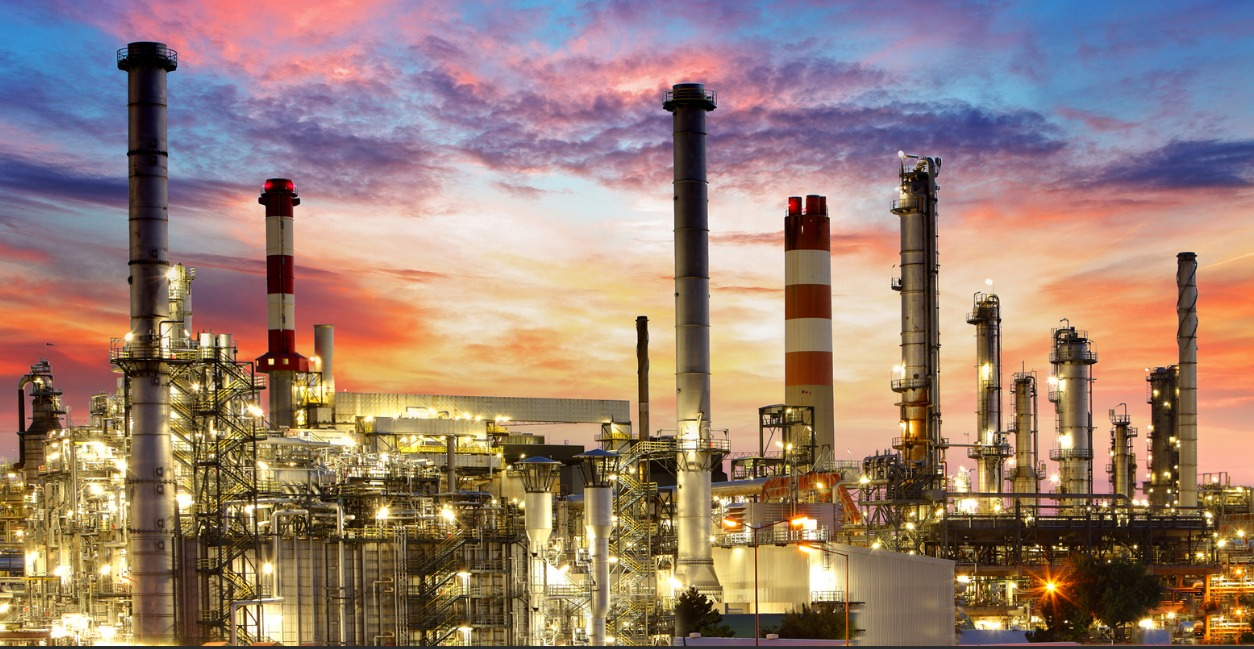
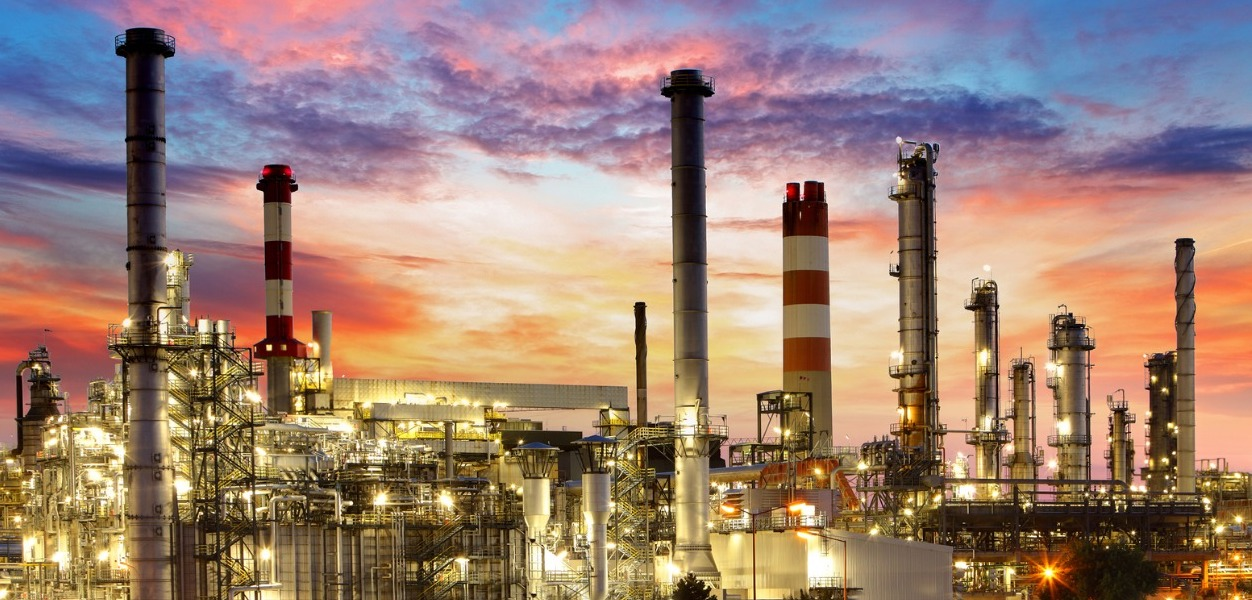
carousel pics added

diff --git a/templates/index.html b/templates/index.html
@@ -91,13 +91,13 @@
             
             <ul class="navbar-nav  col-12 col-lg-auto me-lg-auto mb-2 justify-content-center mb-md-0  " style="--bs-scroll-height: 100px;">
               <li class="nav-item " >
-                <a class="nav-link active text-white" aria-current="page" href="/">Home</a>
+                <a class="nav-link active text-white" aria-current="page" href="/" style="font-size: 125%">Home</a>
               </li>
               <li class="nav-item" style="margin-left:2vw;">
-                <a class="nav-link text-white" href="/">About us</a>
+                <a class="nav-link text-white " href="/" style="font-size: 125%">About us</a>
               </li>
               <li class="nav-item" style="margin-left:2vw;">
-                <a class="nav-link text-white" href="/">Contact</a>
+                <a class="nav-link text-white" href="/" style="font-size: 125%">Contact</a>
               </li>
               <!-- <li class="nav-item dropdown">
                 <a class="nav-link dropdown-toggle" href="#" id="navbarScrollingDropdown" role="button" data-bs-toggle="dropdown" aria-expanded="false">
@@ -138,7 +138,7 @@
                 <a class="nav-link active text-white" aria-current="page" href="/">Home</a>
               </li>
               <li class="nav-item" style="margin-left:2vw;">
-                <a class="nav-link text-white" href="/">About us</a>
+                <a class="nav-link text-white " href="/">About us</a>
               </li>
               <li class="nav-item" style="margin-left:2vw;">
                 <a class="nav-link text-white" href="/">Contact</a>
@@ -173,29 +173,22 @@
     </div>
         </header> -->
  
-
+        <div id="carouselExampleSlidesOnly" class="carousel slide carousel-fade" data-bs-ride="carousel" >
+          <div class="carousel-inner" style="height:70vh;">
+            <div class="carousel-item active" data-bs-interval="3000">
+              <img src="static/img/panorama-1.jpg" style=" width: 100vw;" class="d-block img-fluid" alt="...">
+            </div>
+            <div class="carousel-item" data-bs-interval="3000">
+              <img src="static/img/Image - 14.jpeg" style=" width: 100vw;" class="d-block img-fluid" alt="...">
+            </div>
+            <div class="carousel-item" data-bs-interval="3000">
+              <img src="static/img/offshore-drilling.webp" style=" width: 100vw;" class="d-block img-fluid" alt="...">
+            </div>
+          </div>
+        </div>
 
 
       <div class= "container" style="height:auto; margin-top:5vh;width: 100vw;">
-
-        <div id="carouselExampleSlidesOnly" class="carousel slide" data-bs-ride="carousel">
-            <div class="carousel-inner">
-              <div class="carousel-item active">
-                <img src="static/img/Image - 1.jpeg" style=" width: 100%;" class="d-block " alt="...">
-              </div>
-              <div class="carousel-item">
-                <img src="static/img/Image - 2.jpeg" style=" width: 100%;" class="d-block " alt="...">
-              </div>
-              <div class="carousel-item">
-                <img src="static/img/Image - 3.jpeg" style=" width: 100%;" class="d-block " alt="...">
-              </div>
-            </div>
-          </div>
-<br><br>
-          
-
-
-
 
   <div class="container py-4">
             <header class="pb-3 mb-4 border-bottom">
@@ -233,7 +226,7 @@
                 </div>
               </div>
               <div class="col-md-6">
-                <br class="d-lg-none">
+                <br class="d-md-none">
 
                 <div class="h-100 p-5 bg-dark  text-white rounded-3" data-aos="fade-left">
                   <h2>Creating Value: From Concept to Completion</h2>
